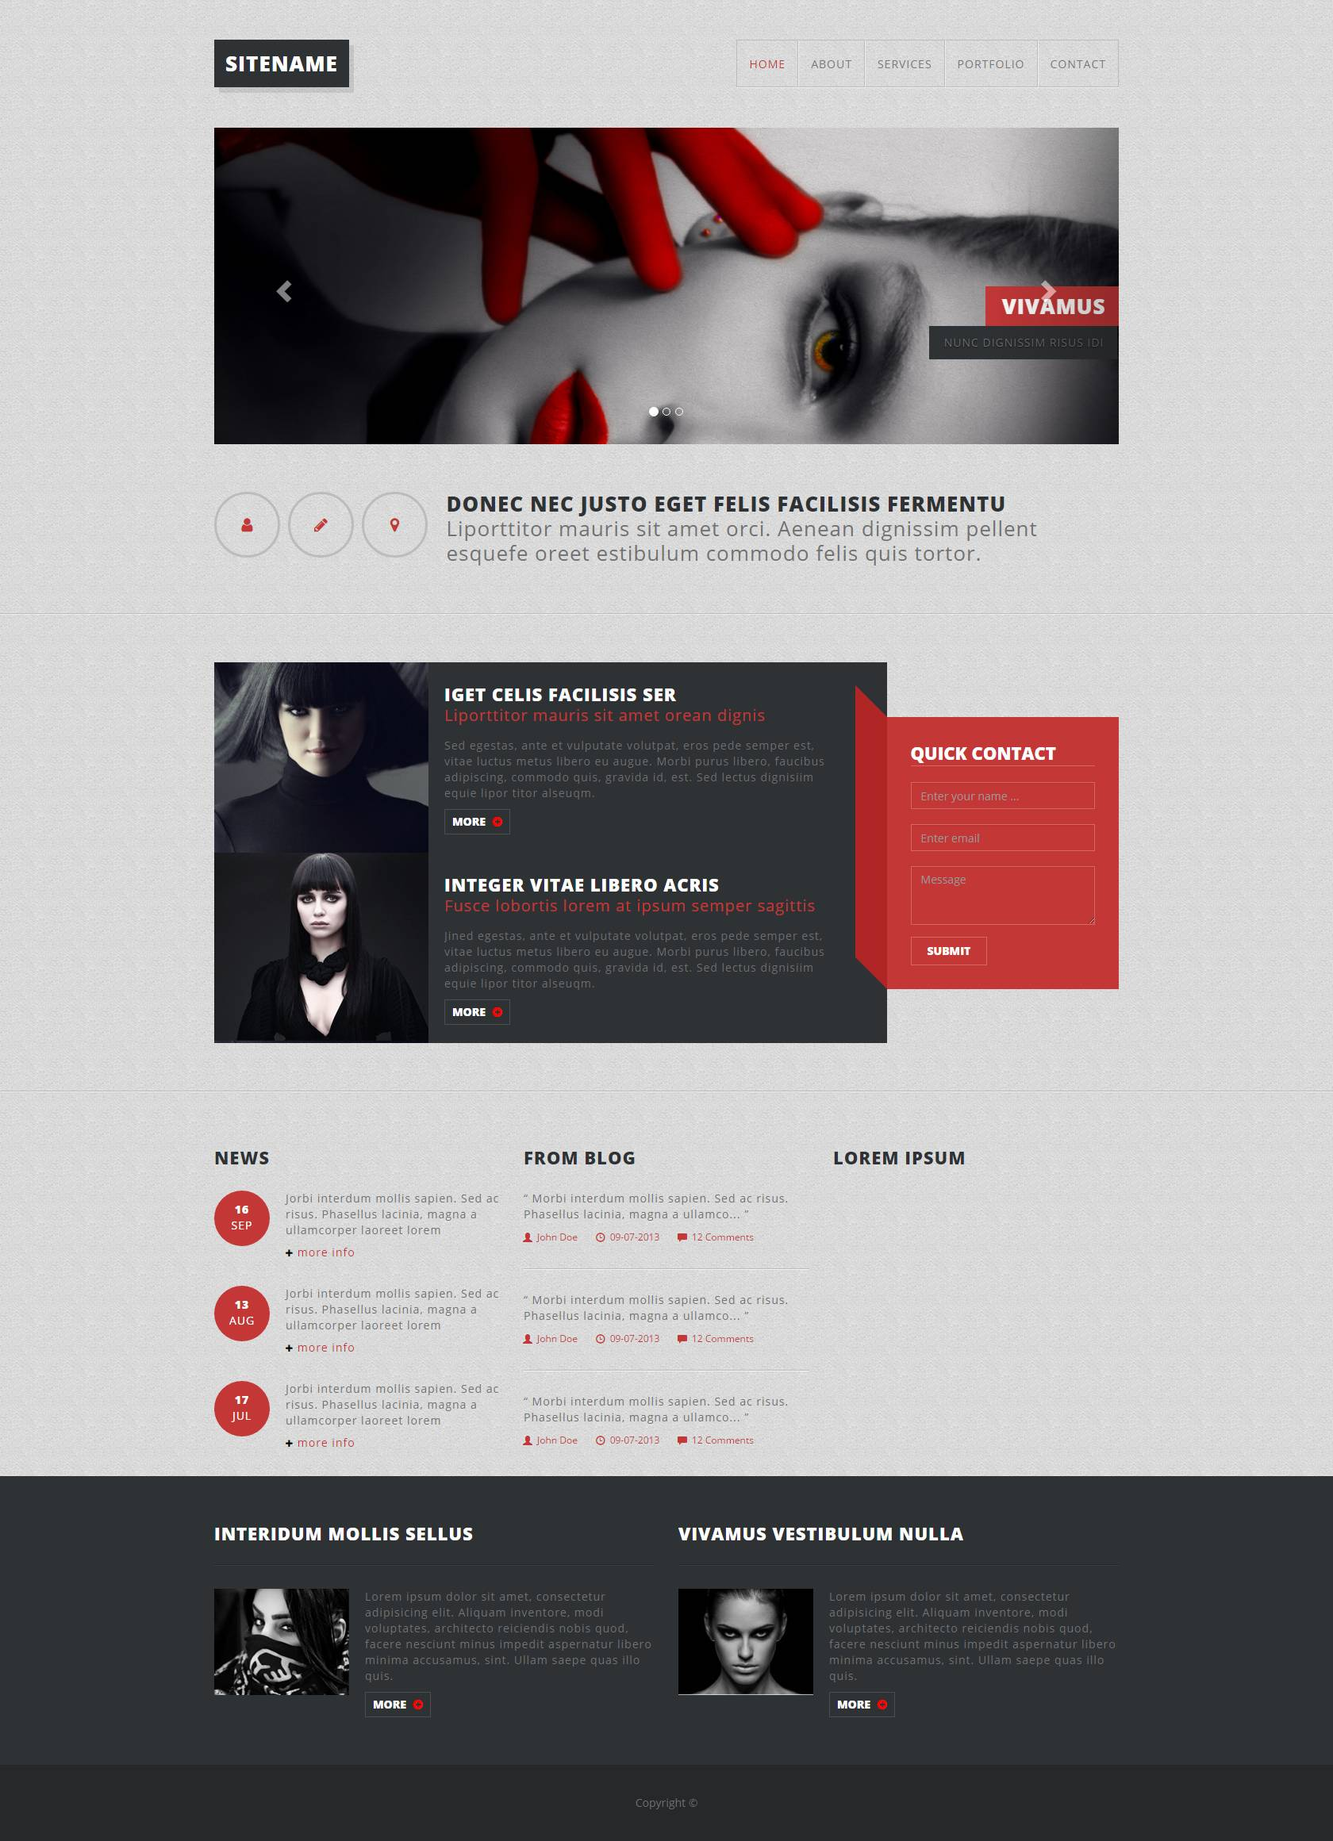
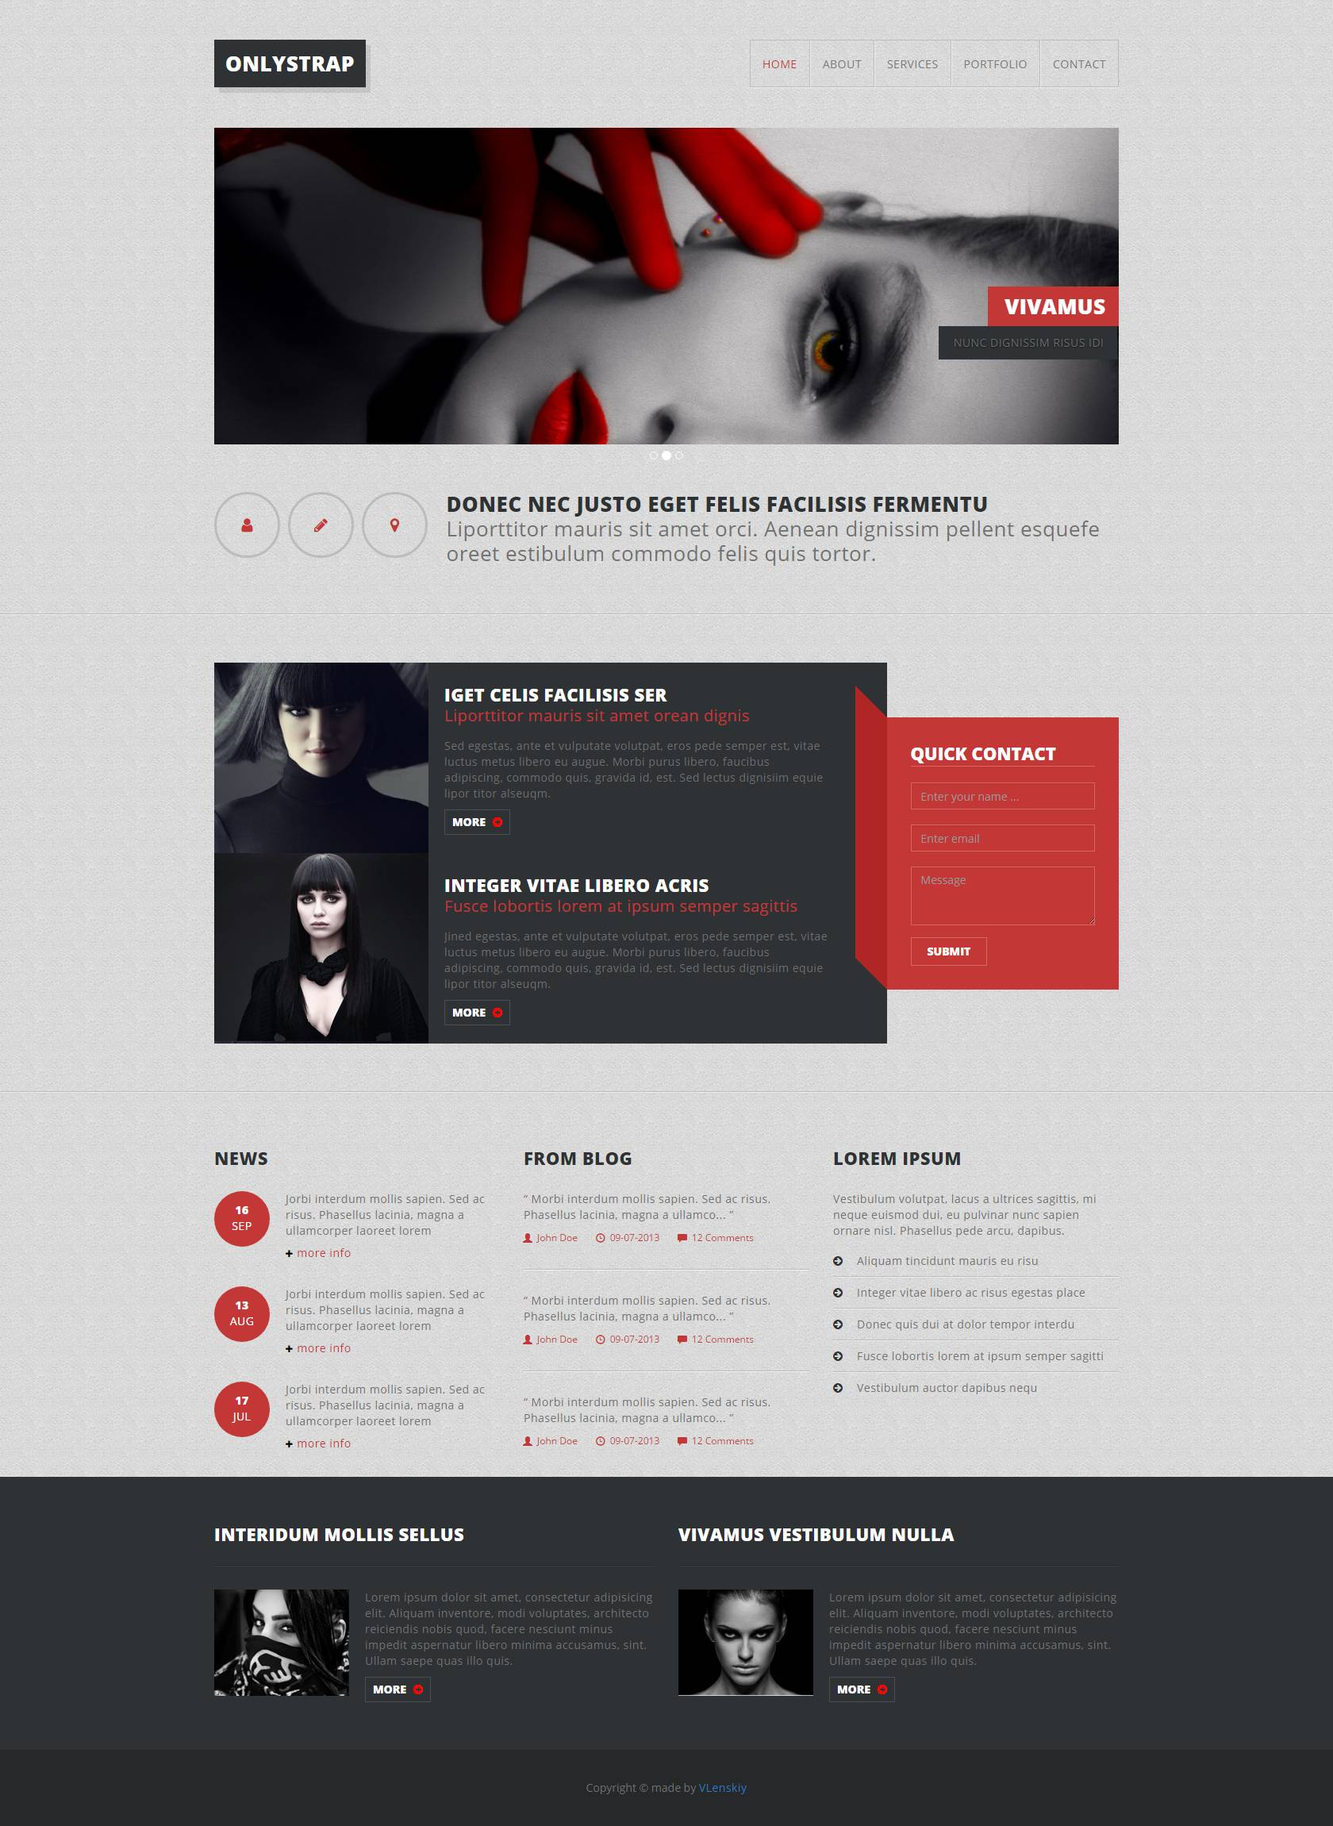
Myself 1.1
замінив форму контактів на google form - працює, яле багато говнокода

diff --git a/Myself/index.html b/Myself/index.html
@@ -2,12 +2,12 @@
 <html>
 <head>
 	<meta charset="UTF-8">
-	<title>Landing</title>
+	<title>Myself</title>
 	<meta http-equiv="X-UA-Compatible" content="IE=edge" />
 	<meta name="viewport" content="width=device-width, initial-scale=1.0" />
-	<link rel="shortcut icon" href="favicon.png" />
-	<link rel="stylesheet" href="css/fonts.css" />
-	<link rel="stylesheet" href="libs/bootstrap/css/bootstrap-grid.min.css">
+	<!-- <link rel="shortcut icon" href="favicon.png" /> -->
+<!-- 	<link rel="stylesheet" href="css/fonts.css" />
+ -->	<link rel="stylesheet" href="libs/bootstrap/css/bootstrap-grid.min.css">
 	<link rel="stylesheet" href="libs/animate/animate.min.css">
 	<link rel="stylesheet" href="css/main.css" />
 	<link rel="stylesheet" href="css/media.css">
@@ -15,6 +15,7 @@
 	<link rel="stylesheet" href="css/style.css">
 	<link rel="stylesheet" href="libs/font-awesome/css/font-awesome.min.css">
 
+	<link href="https://fonts.googleapis.com/css?family=Roboto:400,400i,700,700i" rel="stylesheet">
 
 </head>
 <body>
@@ -93,15 +94,13 @@
 				<div class="col-md-4">
 					<h3>Персональна інформація</h3>
 					<ul>
-						<li>Рік народження: 1990</li>
+						<li>Вік: 26</li>
 						<li>Номер телефону: (050) 189-48-67</li>
 						<li>E-mail: <a href="mailto:vovalensky@hotmail.com" target="_blank">vovalensky@hotmail.com</a></li>
 					</ul>
 					<div class="social">
 						<ul>
-							<li><a href="#" target="_blank"><i class="fa fa-twitter"></i></a></li>
 							<li><a href="https://www.facebook.com/profile.php?id=100000970744474" target="_blank"><i class="fa fa-facebook"></i></a></li>
-							<li><a href="#" target="_blank"><i class="fa fa-vk"></i></a></li>
 							<li><a href="https://github.com/Skylen-root/Mini-folio" target="_blank"><i class="fa fa-github"></i></a></li>
 						</ul>
 					</div>
@@ -127,13 +126,17 @@
 						<div class="year">2015-2016</div>
 						<div class="resume_description">ПАТ "Банк "Український Капітал"
 						<strong>Спеціаліст відділу технічного обслуговування управління інформаційних технологій</strong></div>
-						<p>Адмініструю сайт банку - <a href="http://ukrcapital.com.ua">ukrcapital.com.ua</a>: контент менеджмент, правки шаблона, плагіни. CMS Joomla 2.5.</p>
+						<p>Адміністрування сайту банку - <a href="http://ukrcapital.com.ua">ukrcapital.com.ua</a>: контент менеджмент, правки шаблона, плагіни. CMS Joomla 2.5.</p>
 						<p>Сервіси - Єдине Вікно Welsend, UPC-online, Liga</p>
+						<p>Програмно-технічне супроводження комп'ютерів</p>
+						<p>Консультування та технічна підтримка користувачіва</p>
+						<p>Усунення дрібних несправностей з мережевим обладнанням</p>
 						<p>Для обслуговування ПК,офісної техніки та локальної мережі використовується система заявок OTRS / jtrac</p>
 					</div>
 					<div class="resume_item">
 						<div class="year">2015-2015</div>
 						<div class="resume_description">Пенсійний фонд України <strong>Спеціаліст по адмініструванню інформаційно-телекомунікайної системи і баз данних</strong></div>
+						<p>Обслуговування комп’ютерної техніки і периферійних пристроїв</p>
 						<p>Helpdesk користувачів, обслуговування ПК, мережі та офісної техніки</p>
 					</div>
 					<div class="resume_item">
@@ -146,7 +149,7 @@
 					<h3>Освіта</h3>
 					<div class="resume_item">
 						<div class="year">2008-2013</div>
-						<div class="resume_description">Національний Авіаційний Університет</div>
+						<div class="resume_description"><strong>Національний Авіаційний Університет</strong></div>
 						<ul>
 							<li>Факультет: Телекомунікації та захист інформації</li>
 							<li>Напрям: Безпека інформації</li>
@@ -245,12 +248,25 @@
 					</div>
 				</div>
 				<div class="col-md-6">
-					<form id="form" action="mail.php">
+
+					<script type="text/javascript">var submitted=false;</script>
+				<iframe name="hidden_iframe" id="hidden_iframe"
+				style="display:none;" onload="if(submitted)
+				{window.location='#';}"></iframe>
+				<form action="https://docs.google.com/forms/d/e/1FAIpQLScY1l9C3DdThIImU7qzMHQE5Pr3Ri7Q3-Pw03Zh6UQ1LAHKzg/formResponse?embedded=true" method="post"
+				target="hidden_iframe" onsubmit="submitted=true;" class="form">
+
+				<div class="freebirdFormviewerViewFormCard"><div class="freebirdFormviewerViewAccentBanner freebirdAccentBackground"></div><div class="freebirdFormviewerViewFormContent "><div class="freebirdFormviewerViewHeaderHeader"><div class="freebirdFormviewerViewHeaderTitleRow"></div></div><div class="freebirdFormviewerViewItemList" role="list"><div role="listitem" class="freebirdFormviewerViewItemsItemItem freebirdFormviewerViewItemsTextTextItem" jsname="ibnC6b" jscontroller="rDGJeb" jsaction="sPvj8e:e4JwSe,vwKRrd;" data-required="true" data-item-id="2064607102"><div class="freebirdFormviewerViewItemsItemItemHeader"><div class="freebirdFormviewerViewItemsItemItemTitleContainer"><div class="freebirdFormviewerViewItemsItemItemTitle" dir="auto" role="heading" aria-level="2" aria-describedby="i.desc.2064607102">Ваше ім’я <span class="freebirdFormviewerViewItemsItemRequiredAsterisk" aria-hidden="true">*</span></div><div class="freebirdFormviewerViewItemsItemItemHelpText" id="i.desc.2064607102" dir="auto"></div></div></div><div class="freebirdFormviewerViewItemsTextItemWrapper"><div class="quantumWizTextinputPaperinputEl freebirdFormviewerViewItemsTextShortText freebirdThemedInput" jscontroller="pxq3x" jsaction="clickonly:KjsqPd; focus:Jt1EX; blur:fpfTEe; input:Lg5SV;" jsshadow="" jsname="W85ice"><div class="quantumWizTextinputPaperinputMainContent exportContent"><div class="quantumWizTextinputPaperinputContentArea"><div class="quantumWizTextinputPaperinputInputArea"><input type="text" class="quantumWizTextinputPaperinputInput exportInput" jsname="YPqjbf" autocomplete="off" tabindex="0" aria-label="Ваше ім’я" aria-describedby="i.desc.2064607102 i.err.2064607102" name="entry.27313150" value="" required="" dir="auto" data-initial-dir="auto" data-initial-value=""></div><div class="quantumWizTextinputPaperinputUnderline exportUnderline"></div><div jsname="XmnwAc" class="quantumWizTextinputPaperinputFocusUnderline exportFocusUnderline"></div></div></div><div class="quantumWizTextinputPaperinputCounterErrorHolder"><div jsname="ty6ygf" class="quantumWizTextinputPaperinputHint exportHint"></div></div></div></div><div class="freebirdFormviewerViewItemsItemGradingBox freebirdFormviewerViewItemsItemFeedbackBox" jsname="R7fTud"></div><div jsname="XbIQze" class="freebirdFormviewerViewItemsItemErrorMessage" id="i.err.2064607102" role="alert"></div></div><div role="listitem" class="freebirdFormviewerViewItemsItemItem freebirdFormviewerViewItemsTextTextItem" jsname="ibnC6b" jscontroller="rDGJeb" jsaction="sPvj8e:e4JwSe,vwKRrd;" data-required="true" data-item-id="836063634"><div class="freebirdFormviewerViewItemsItemItemHeader"><div class="freebirdFormviewerViewItemsItemItemTitleContainer"><div class="freebirdFormviewerViewItemsItemItemTitle" dir="auto" role="heading" aria-level="2" aria-describedby="i.desc.836063634">Ваша електронна адреса <span class="freebirdFormviewerViewItemsItemRequiredAsterisk" aria-hidden="true">*</span></div><div class="freebirdFormviewerViewItemsItemItemHelpText" id="i.desc.836063634" dir="auto"></div></div></div><div class="freebirdFormviewerViewItemsTextItemWrapper"><div class="quantumWizTextinputPaperinputEl freebirdFormviewerViewItemsTextShortText freebirdFormviewerViewItemsTextEmail freebirdThemedInput" jscontroller="pxq3x" jsaction="clickonly:KjsqPd; focus:Jt1EX; blur:fpfTEe; input:Lg5SV;" jsshadow="" jsname="W85ice"><div class="quantumWizTextinputPaperinputMainContent exportContent"><div class="quantumWizTextinputPaperinputContentArea"><div class="quantumWizTextinputPaperinputInputArea"><input type="email" class="quantumWizTextinputPaperinputInput exportInput" jsname="YPqjbf" autocomplete="off" tabindex="0" aria-label="Ваша електронна адреса" aria-describedby="i.desc.836063634 i.err.836063634" name="entry.399482774" value="" required="" dir="auto" data-initial-dir="auto" data-initial-value=""></div><div class="quantumWizTextinputPaperinputUnderline exportUnderline"></div><div jsname="XmnwAc" class="quantumWizTextinputPaperinputFocusUnderline exportFocusUnderline"></div></div></div><div class="quantumWizTextinputPaperinputCounterErrorHolder"><div jsname="ty6ygf" class="quantumWizTextinputPaperinputHint exportHint"></div></div></div></div><div class="freebirdFormviewerViewItemsItemGradingBox freebirdFormviewerViewItemsItemFeedbackBox" jsname="R7fTud"></div><div jsname="XbIQze" class="freebirdFormviewerViewItemsItemErrorMessage" id="i.err.836063634" role="alert"></div></div><div role="listitem" class="freebirdFormviewerViewItemsItemItem freebirdFormviewerViewItemsTextTextItem" jsname="ibnC6b" jscontroller="rDGJeb" jsaction="sPvj8e:e4JwSe,vwKRrd;" data-required="true" data-item-id="284679763"><div class="freebirdFormviewerViewItemsItemItemHeader"><div class="freebirdFormviewerViewItemsItemItemTitleContainer"><div class="freebirdFormviewerViewItemsItemItemTitle" dir="auto" role="heading" aria-level="2" aria-describedby="i.desc.284679763">Ваше повідомлення <span class="freebirdFormviewerViewItemsItemRequiredAsterisk" aria-hidden="true">*</span></div><div class="freebirdFormviewerViewItemsItemItemHelpText" id="i.desc.284679763" dir="auto"></div></div></div><div class="quantumWizTextinputPapertextareaEl modeLight freebirdFormviewerViewItemsTextLongText freebirdThemedInput" jscontroller="pxq3x" jsaction="clickonly:KjsqPd; focus:Jt1EX; blur:fpfTEe; input:Lg5SV;" jsshadow="" jsname="W85ice"><div class="quantumWizTextinputPapertextareaMainContent exportContent"><div class="quantumWizTextinputPapertextareaContentArea exportContentArea"><textarea class="quantumWizTextinputPapertextareaInput exportTextarea" jsname="YPqjbf" data-rows="5" tabindex="0" aria-label="Ваше повідомлення" jscontroller="gZjhIf" jsaction="input:Lg5SV;ti6hGc:XMgOHc;rcuQ6b:WYd;" required="" name="entry.1520395268" dir="auto" data-initial-dir="auto" data-initial-value="" style="height: 90px;"></textarea></div><div class="quantumWizTextinputPapertextareaUnderline exportUnderline"></div><div jsname="XmnwAc" class="quantumWizTextinputPapertextareaFocusUnderline exportFocusUnderline"></div></div><div jsname="ty6ygf" class="quantumWizTextinputPapertextareaHint exportHint"></div></div><div class="freebirdFormviewerViewItemsItemGradingBox freebirdFormviewerViewItemsItemFeedbackBox" jsname="R7fTud"></div><div jsname="XbIQze" class="freebirdFormviewerViewItemsItemErrorMessage" id="i.err.284679763" role="alert"></div></div></div><div class="freebirdFormviewerViewNavigationNavControls" jscontroller="lSvzH" jsaction="rcuQ6b:npT2md;JIbuQc:V3upec(GeGHKb),HiUbje(M2UYVd),NPBnCf(OCpkoe)" data-shuffle-seed="-1185044304713575839"><div class="freebirdFormviewerViewNavigationButtonsAndProgress"><div class="freebirdFormviewerViewNavigationButtons"><div role="button" class="quantumWizButtonPaperbuttonEl quantumWizButtonPaperbuttonFlat quantumWizButtonPaperbuttonDark quantumWizButtonPaperbutton2El2 freebirdFormviewerViewNavigationSubmitButton isUndragged" jscontroller="VXdfxd" jsaction="click:cOuCgd; mousedown:UX7yZ; mouseup:lbsD7e; mouseenter:tfO1Yc; mouseleave:JywGue;touchstart:p6p2H; touchmove:FwuNnf; touchend:yfqBxc(preventMouseEvents=true|preventDefault=true); touchcancel:JMtRjd;focus:AHmuwe; blur:O22p3e; contextmenu:mg9Pef;" jsshadow="" jsname="M2UYVd" aria-disabled="false" tabindex="0"><div class="quantumWizButtonPaperbuttonRipple exportInk" jsname="ksKsZd"></div><div class="quantumWizButtonPaperbuttonFocusOverlay exportOverlay"></div><content class="quantumWizButtonPaperbuttonContent"></content></div></div></div></div><input type="hidden" name="fvv" value="1"><input type="hidden" name="draftResponse" value="[null,null,&quot;-1185044304713575839&quot;]
+"><input type="hidden" name="pageHistory" value="0"><input type="hidden" name="fbzx" value="-1185044304713575839"></div></div>
+<button type="submit">Відправити</button>
+</form>
+
+					<!-- <form id="form" class="form" action="mail.php">
 						<input type="text" name="name" placeholder="Ваше ім'я" required /><br />
 						<input type="text" name="mail" placeholder="Ваша електронна адреса" required /><br />
 						<textarea name="message" placeholder="Ваше повідомлення" data-validation-required-message="Ви не ввели повідомлення" required="" aria-invalid="false"></textarea>
 						<button type="submit">Відправити</button>
-					</form>
+					</form> -->
 				</div>
 			</div>
 		</div>
@@ -264,9 +280,7 @@
 				&copy; 2016 Всі права захищені
 				<div class="social">
 						<ul>
-							<li><a href="#" target="_blank"><i class="fa fa-twitter"></i></a></li>
 							<li><a href="https://www.facebook.com/profile.php?id=100000970744474" target="_blank"><i class="fa fa-facebook"></i></a></li>
-							<li><a href="#" target="_blank"><i class="fa fa-vk"></i></a></li>
 							<li><a href="https://github.com/Skylen-root/Mini-folio" target="_blank"><i class="fa fa-github"></i></a></li>
 						</ul>
 					</div>

diff --git a/Myself/css/main.css b/Myself/css/main.css
@@ -1,6 +1,7 @@
 body {
 	min-width: 320px;
 	line-height: 1.6;
+	font-family: "Roboto", sans-serif;
 }
 
 section {
@@ -223,6 +224,7 @@ section h2 {
 	font-size: 24px;
 	text-transform: uppercase;
 	margin: 0 0 10px;
+	letter-spacing: 2px;
 }
 
 .descr_wrap {
@@ -352,11 +354,25 @@ section h2 {
 	float: left;
 }
 
-.portfolio_gallery h4 {
+.portfolio_gallery h4 a {
+	display: block;
 	text-align: center;
 	text-transform: uppercase;
 	font-style: italic;
+	color: rgb(98,85,249);
+	font-size: 18px;
+	transition: all .25s linear ;
+}
+
+.portfolio_gallery h4 a:hover {
 	color: #fff;
+	-moz-transform: scale(1.2);
+	-ms-transform: rscale(1.2);
+	-webkit-transform: scale(1.2);
+	-o-transform: scale(1.2);
+	transform: scale(1.2);
+	transition: all .25s linear ;
+	letter-spacing: 2px;
 }
 
 .portfolio_gallery_img {
@@ -364,16 +380,20 @@ section h2 {
 	height: 120px;
 }
 
+.portfolio_gallery_img:hover {
+	-moz-transform: scale(1.1);
+	-ms-transform: rscale(1.1);
+	-webkit-transform: scale(1.1);
+	-o-transform: scale(1.1);
+	transform: scale(1.1);
+	transition: all .5s linear ;}
+
 .portfolio_gallery img {
-    margin: 0;
-    padding: 0;
-    width: 100%;
-    height: auto;
-    border: none;
-	/*width: 25%;
+	margin: 0;
+	padding: 0;
+	width: 100%;
 	height: auto;
-	padding: 20px;
-	display: block;*/
+	border: none;
 }
 
 /*Contacts==========*/
@@ -384,13 +404,12 @@ section h2 {
 
 .contact_box .fa {
 	color: rgb(98, 85, 249);
-	
 }
 
 
 /*form ====================*/
 
-#form input, #form textarea {
+.form input, .form textarea {
 	margin-bottom: 10px;
 	padding: 10px;
 	border: #fff;
@@ -398,14 +417,12 @@ section h2 {
 	width: 100%;
 }
 
-#form input:focus, #form textarea:focus {
+.form input:focus, .form textarea:focus {
 	box-shadow: 0 0 11px 4px #fff;
 	outline-color: #fff;
 }
 
-
-
-#form button {
+.form button {
 	border: none;
 	color: #fff;
 	line-height: 40px;

diff --git a/onlystrap/index.html b/onlystrap/index.html
@@ -4,7 +4,7 @@
 		<meta charset="utf-8">
 		<meta http-equiv="X-UA-Compatible" content="IE=edge">
 		<meta name="viewport" content="width=device-width, initial-scale=1">
-		<title>Title Page</title>
+		<title>Onlystrap</title>
 		<link rel="stylesheet" type="text/css" href="libs/bootstrap/css/bootstrap.min.css">
 		<link href="https://fonts.googleapis.com/css?family=Open+Sans:300,400,800" rel="stylesheet">
 		<link rel="stylesheet" href="libs/font-awesome/css/font-awesome.min.css">
@@ -22,7 +22,7 @@
 						<span class="icon-bar"></span>
 						<span class="icon-bar"></span>
 					</button>
-					<a class="navbar-brand" href="#">Sitename</a>
+					<a class="navbar-brand" href="#">Onlystrap</a>
 				</div>
 		
 				<div id="navbar" class="collapse navbar-collapse navbar-ex1-collapse">
@@ -287,7 +287,7 @@
 			</div>
 			<div class="footer-bottom">
 				<div class="container">
-					<span>Copyright &copy</span>
+					<span>Copyright &copy made by <a href="http://skylen.zzz.com.ua/Landing_about_me/index.html">VLenskiy</a></span>
 				</div>
 			</div>
 		</footer>

diff --git a/Myself/js/common.js b/Myself/js/common.js
@@ -67,17 +67,17 @@ $(".toggle_menu, .menu_item").click(function() {
 
 
 // contact form
-$("#form").submit(function() {
-		$.ajax({
-			type: "POST",
-			url: "mail.php",
-			data: $(this).serialize()
-		}).done(function() {
-			$(this).find("input").val("");
-			alert("Нажаль безкоштовний хостинг не надсилає електронні листи =(");
-			$("#form").trigger("reset");
-		});
-		return false;
-	});
+// $("#form").submit(function() {
+// 		$.ajax({
+// 			type: "POST",
+// 			url: "https://docs.google.com/forms/d/e/1FAIpQLScY1l9C3DdThIImU7qzMHQE5Pr3Ri7Q3-Pw03Zh6UQ1LAHKzg/formResponse?embedded=true",
+// 			data: $(this).serialize()
+// 		}).done(function() {
+// 			$(this).find("input").val("");
+// 			alert("Дякую за повідомлення, відповім найближчим часом");
+// 			$("#form").trigger("reset");
+// 		});
+// 		return false;
+// 	});
 //
 });
